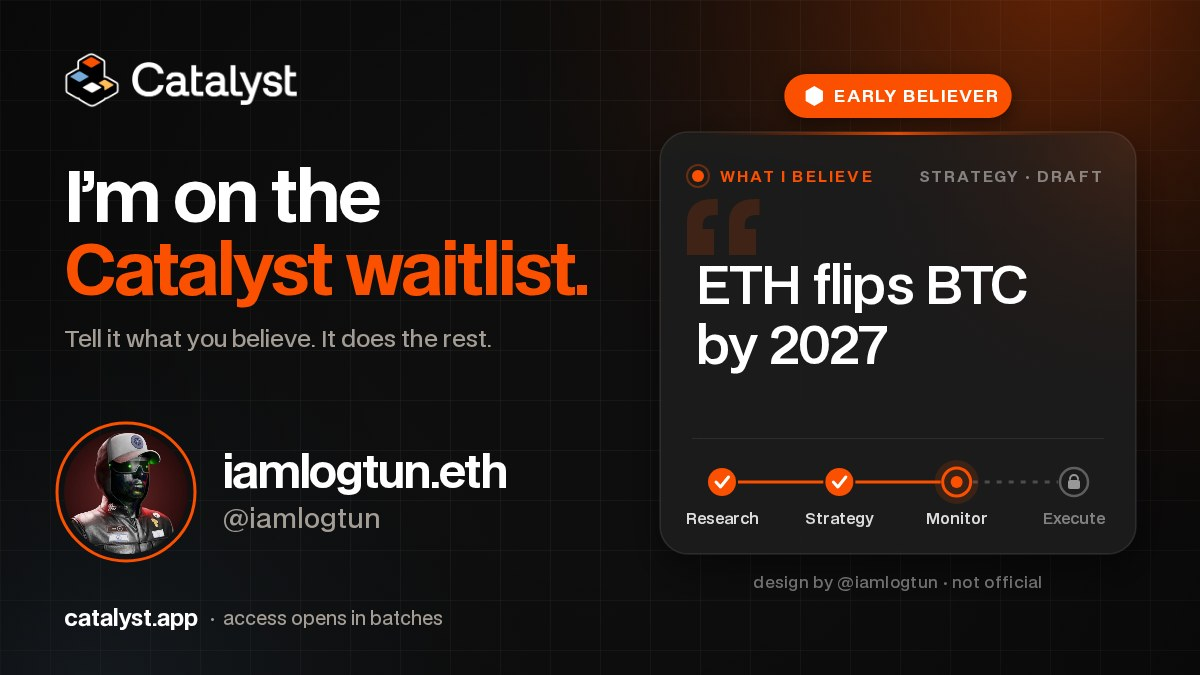
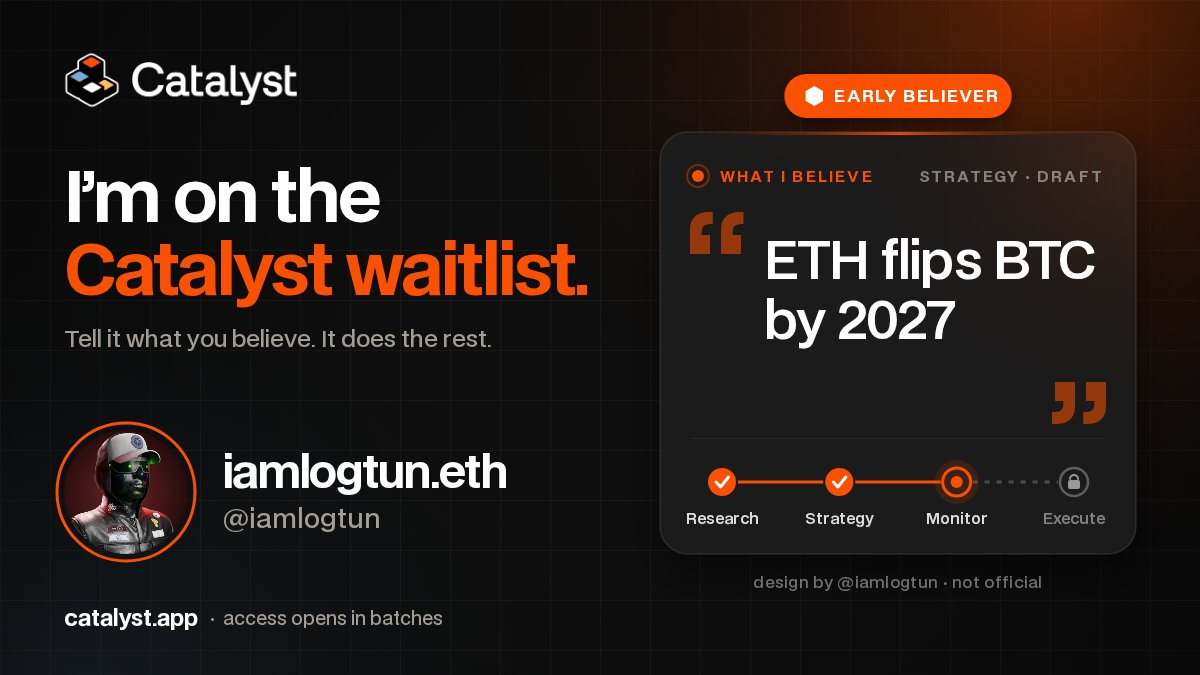
Card: closing quote mark in the belief box; both marks more visible

Changed region(s): [[0.555, 0.28, 0.925, 0.56], [0.8633, 0.56, 0.925, 0.6222]]

diff --git a/index.html b/index.html
@@ -10,21 +10,21 @@
 <meta property="og:url" content="https://catalyst-waitlist-card.vercel.app/">
 <meta property="og:title" content="I’m on the Catalyst waitlist. Make your hype card">
 <meta property="og:description" content="Your name, your belief, your card. Generate a shareable Catalyst waitlist card for X in seconds.">
-<meta property="og:image" content="https://catalyst-waitlist-card.vercel.app/og.jpg?v=8">
+<meta property="og:image" content="https://catalyst-waitlist-card.vercel.app/og.jpg?v=9">
 <meta property="og:image:width" content="1200">
 <meta property="og:image:height" content="675">
 <meta property="og:image:alt" content="A sample Catalyst waitlist hype card">
 <meta name="twitter:card" content="summary_large_image">
 <meta name="twitter:title" content="I’m on the Catalyst waitlist. Make your hype card">
 <meta name="twitter:description" content="Your name, your belief, your card. Generate a shareable Catalyst waitlist card for X in seconds.">
-<meta name="twitter:image" content="https://catalyst-waitlist-card.vercel.app/og.jpg?v=8">
+<meta name="twitter:image" content="https://catalyst-waitlist-card.vercel.app/og.jpg?v=9">
 <link rel="icon" href="favicon.svg" type="image/svg+xml">
 <link rel="icon" href="favicon-96.png" sizes="96x96" type="image/png">
 <link rel="apple-touch-icon" href="apple-touch-icon.png">
 <link rel="preconnect" href="https://api.fxtwitter.com" crossorigin>
 <link rel="preconnect" href="https://pbs.twimg.com" crossorigin>
 <link rel="preload" href="assets/bdo-grotesk.woff2" as="font" type="font/woff2" crossorigin>
-<link rel="stylesheet" href="styles.css?v=19">
+<link rel="stylesheet" href="styles.css?v=20">
 </head>
 <body>
 <div class="bg-grid" aria-hidden="true"></div>
@@ -159,7 +159,7 @@
 <div class="toast" id="toast" role="status" aria-live="polite"></div>
 
 <script src="wall.js?v=1" defer></script>
-<script src="app.js?v=19" defer></script>
+<script src="app.js?v=20" defer></script>
 <script src="gate.js?v=1" defer></script>
 </body>
 </html>

diff --git a/app.js b/app.js
@@ -239,12 +239,17 @@ function draw() {
   ctx.fillText("STRATEGY · DRAFT", cx + cw - 32, cy + 45);
   setLS(0);
 
-  // quote: big faded quote mark behind, belief vertically centred in its block
+  // quote marks: opening “ top-left, closing ” bottom-right (mirrored), in the accent colour;
+  // the belief sits in the space between them so neither mark ever touches the text
   ctx.textAlign = "left"; ctx.textBaseline = "alphabetic";
-  ctx.font = F(700, 190); ctx.fillStyle = hexA(cardAccent, 0.16);
-  ctx.fillText("“", cx + 18, cy + 205);
+  ctx.font = F(700, 140); ctx.fillStyle = hexA(cardAccent, 0.55);
+  const mo = ctx.measureText("“"), mc = ctx.measureText("”");
+  const oL = cx + 30, oT = cy + 80, oW = mo.actualBoundingBoxLeft + mo.actualBoundingBoxRight;
+  const cR = cx + cw - 30, cB = cy + 292, cH = mc.actualBoundingBoxAscent + mc.actualBoundingBoxDescent;
+  ctx.fillText("“", oL + mo.actualBoundingBoxLeft, oT + mo.actualBoundingBoxAscent);
+  ctx.fillText("”", cR - mc.actualBoundingBoxRight, cB - mc.actualBoundingBoxDescent);
   const bt = belief || "Tell it what you believe.";
-  const qx = cx + 36, qw = cw - 72, qTop = cy + 84, qBot = cy + 290;
+  const qx = oL + oW + 20, qw = cx + cw - 36 - qx, qTop = cy + 84, qBot = cB - cH - 10;
   let bs = 52, lines;
   setLS(-0.8);
   for (; bs > 22; bs -= 2) {
